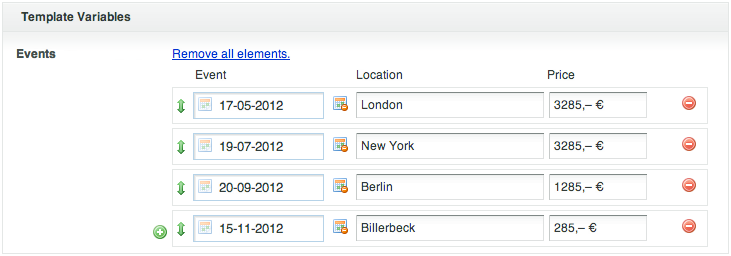
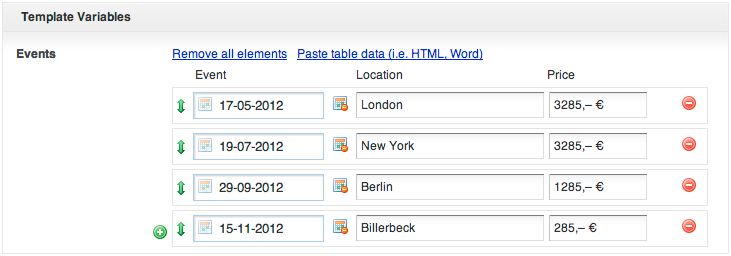
added: pasting input field for HTML/Word tables

diff --git a/js/jquery-htmlClean-1.3.0.min.js b/js/jquery-htmlClean-1.3.0.min.js
@@ -1,0 +1,1 @@
+(function (d) { d.fn.htmlClean = function (y) { return this.each(function () { var z = d(this); if (this.value) { this.value = d.htmlClean(this.value, y) } else { this.innerHTML = d.htmlClean(this.innerHTML, y) } }) }; d.htmlClean = function (D, z) { z = d.extend({}, d.htmlClean.defaults, z); var E = /<(\/)?(\w+:)?([\w]+)([^>]*)>/gi; var J = /(\w+)=(".*?"|'.*?'|[^\s>]*)/gi; var R; var L = new r(); var C = [L]; var F = L; var K = false; if (z.bodyOnly) { if (R = /<body[^>]*>((\n|.)*)<\/body>/i.exec(D)) { D = R[1] } } D = D.concat("<xxx>"); var O; while (R = E.exec(D)) { var T = new j(R[3], R[1], R[4], z); var G = D.substring(O, R.index); if (G.length > 0) { var B = F.children[F.children.length - 1]; if (F.children.length > 0 && n(B = F.children[F.children.length - 1])) { F.children[F.children.length - 1] = B.concat(G) } else { F.children.push(G) } } O = E.lastIndex; if (T.isClosing) { if (k(C, [T.name])) { C.pop(); F = C[C.length - 1] } } else { var y = new r(T); var A; while (A = J.exec(T.rawAttributes)) { if (A[1].toLowerCase() == "style" && z.replaceStyles) { var H = !T.isInline; for (var N = 0; N < z.replaceStyles.length; N++) { if (z.replaceStyles[N][0].test(A[2])) { if (!H) { T.render = false; H = true } F.children.push(y); C.push(y); F = y; T = new j(z.replaceStyles[N][1], "", "", z); y = new r(T) } } } if (T.allowedAttributes != null && (T.allowedAttributes.length == 0 || d.inArray(A[1], T.allowedAttributes) > -1)) { y.attributes.push(new a(A[1], A[2])) } } d.each(T.requiredAttributes, function () { var U = this.toString(); if (!y.hasAttribute(U)) { y.attributes.push(new a(U, "")) } }); for (var M = 0; M < z.replace.length; M++) { for (var Q = 0; Q < z.replace[M][0].length; Q++) { var P = typeof (z.replace[M][0][Q]) == "string"; if ((P && z.replace[M][0][Q] == T.name) || (!P && z.replace[M][0][Q].test(R))) { T.render = false; F.children.push(y); C.push(y); F = y; T = new j(z.replace[M][1], R[1], R[4], z); y = new r(T); y.attributes = F.attributes; M = z.replace.length; break } } } var I = true; if (!F.isRoot) { if (F.tag.isInline && !T.isInline) { I = false } else { if (F.tag.disallowNest && T.disallowNest && !T.requiredParent) { I = false } else { if (T.requiredParent) { if (I = k(C, T.requiredParent)) { F = C[C.length - 1] } } } } } if (I) { F.children.push(y); if (T.toProtect) { while (tagMatch2 = E.exec(D)) { var S = new j(tagMatch2[3], tagMatch2[1], tagMatch2[4], z); if (S.isClosing && S.name == T.name) { y.children.push(RegExp.leftContext.substring(O)); O = E.lastIndex; break } } } else { if (!T.isSelfClosing && !T.isNonClosing) { C.push(y); F = y } } } } } return d.htmlClean.trim(w(L, z).join("")) }; d.htmlClean.defaults = { bodyOnly: true, allowedTags: [], removeTags: ["basefont", "center", "dir", "font", "frame", "frameset", "iframe", "isindex", "menu", "noframes", "s", "strike", "u"], allowedAttributes: [], removeAttrs: [], allowedClasses: [], format: false, formatIndent: 0, replace: [[["b", "big"], "strong"], [["i"], "em"]], replaceStyles: [[/font-weight:\s*bold/i, "strong"], [/font-style:\s*italic/i, "em"], [/vertical-align:\s*super/i, "sup"], [/vertical-align:\s*sub/i, "sub"]] }; function h(B, A, z, y) { if (!B.tag.isInline && z.length > 0) { z.push("\n"); for (i = 0; i < y; i++) { z.push("\t") } } } function w(C, I) { var z = [], F = C.attributes.length == 0, A; var D = this.name.concat(C.tag.rawAttributes == undefined ? "" : C.tag.rawAttributes); var H = C.tag.render && (I.allowedTags.length == 0 || d.inArray(C.tag.name, I.allowedTags) > -1) && (I.removeTags.length == 0 || d.inArray(C.tag.name, I.removeTags) == -1); if (!C.isRoot && H) { z.push("<"); z.push(C.tag.name); d.each(C.attributes, function () { if (d.inArray(this.name, I.removeAttrs) == -1) { var J = RegExp(/^(['"]?)(.*?)['"]?$/).exec(this.value); var K = J[2]; var L = J[1] || "'"; if (this.name == "class") { K = d.grep(K.split(" "), function (M) { return d.grep(I.allowedClasses, function (N) { return N[0] == M && (N.length == 1 || d.inArray(C.tag.name, N[1]) > -1) }).length > 0 }).join(" "); L = "'" } if (K != null && (K.length > 0 || d.inArray(this.name, C.tag.requiredAttributes) > -1)) { z.push(" "); z.push(this.name); z.push("="); z.push(L); z.push(K); z.push(L) } } }) } if (C.tag.isSelfClosing) { if (H) { z.push(" />") } F = false } else { if (C.tag.isNonClosing) { F = false } else { if (!C.isRoot && H) { z.push(">") } var A = I.formatIndent++; if (C.tag.toProtect) { var E = d.htmlClean.trim(C.children.join("")).replace(/<br>/ig, "\n"); z.push(E); F = E.length == 0 } else { var E = []; for (var B = 0; B < C.children.length; B++) { var y = C.children[B]; var G = d.htmlClean.trim(c(n(y) ? y : y.childrenToString())); if (q(y)) { if (B > 0 && G.length > 0 && (v(y) || e(C.children[B - 1]))) { E.push(" ") } } if (n(y)) { if (G.length > 0) { E.push(G) } } else { if (B != C.children.length - 1 || y.tag.name != "br") { if (I.format) { h(y, I, E, A) } E = E.concat(w(y, I)) } } } I.formatIndent--; if (E.length > 0) { if (I.format && E[0] != "\n") { h(C, I, z, A) } z = z.concat(E); F = false } } if (!C.isRoot && H) { if (I.format) { h(C, I, z, A - 1) } z.push("</"); z.push(C.tag.name); z.push(">") } } } if (!C.tag.allowEmpty && F) { return [] } return z } function k(y, A, z) { z = z || 1; if (d.inArray(y[y.length - z].tag.name, A) > -1) { return true } else { if (y.length - (z + 1) > 0 && k(y, A, z + 1)) { y.pop(); return true } } return false } function r(y) { if (y) { this.tag = y; this.isRoot = false } else { this.tag = new j("root"); this.isRoot = true } this.attributes = []; this.children = []; this.hasAttribute = function (z) { for (var A = 0; A < this.attributes.length; A++) { if (this.attributes[A].name == z) { return true } } return false }; this.childrenToString = function () { return this.children.join("") }; return this } function a(y, z) { this.name = y; this.value = z; return this } function j(A, E, D, z) { this.name = A.toLowerCase(); this.isSelfClosing = d.inArray(this.name, l) > -1; this.isNonClosing = d.inArray(this.name, s) > -1; this.isClosing = (E != undefined && E.length > 0); this.isInline = d.inArray(this.name, t) > -1; this.disallowNest = d.inArray(this.name, p) > -1; this.requiredParent = f[d.inArray(this.name, f) + 1]; this.allowEmpty = d.inArray(this.name, b) > -1; this.toProtect = d.inArray(this.name, g) > -1; this.rawAttributes = D; this.requiredAttributes = x[d.inArray(this.name, x) + 1]; if (z) { if (!z.tagAttributesCache) { z.tagAttributesCache = [] } if (d.inArray(this.name, z.tagAttributesCache) == -1) { var y = m[d.inArray(this.name, m) + 1].slice(0); for (var C = 0; C < z.allowedAttributes.length; C++) { var B = z.allowedAttributes[C][0]; if ((z.allowedAttributes[C].length == 1 || d.inArray(this.name, z.allowedAttributes[C][1]) > -1) && d.inArray(B, y) == -1) { y.push(B) } } z.tagAttributesCache.push(this.name); z.tagAttributesCache.push(y) } this.allowedAttributes = z.tagAttributesCache[d.inArray(this.name, z.tagAttributesCache) + 1] } this.render = true; return this } function v(y) { while (o(y) && y.children.length > 0) { y = y.children[0] } return n(y) && y.length > 0 && d.htmlClean.isWhitespace(y.charAt(0)) } function e(y) { while (o(y) && y.children.length > 0) { y = y.children[y.children.length - 1] } return n(y) && y.length > 0 && d.htmlClean.isWhitespace(y.charAt(y.length - 1)) } function n(y) { return y.constructor == String } function q(y) { return n(y) || y.tag.isInline } function o(y) { return y.constructor == r } function c(y) { return y.replace(/&nbsp;|\n/g, " ").replace(/\s\s+/g, " ") } d.htmlClean.trim = function (y) { return d.htmlClean.trimStart(d.htmlClean.trimEnd(y)) }; d.htmlClean.trimStart = function (y) { return y.substring(d.htmlClean.trimStartIndex(y)) }; d.htmlClean.trimStartIndex = function (y) { for (var z = 0; z < y.length - 1 && d.htmlClean.isWhitespace(y.charAt(z)); z++) { } return z }; d.htmlClean.trimEnd = function (y) { return y.substring(0, d.htmlClean.trimEndIndex(y)) }; d.htmlClean.trimEndIndex = function (z) { for (var y = z.length - 1; y >= 0 && d.htmlClean.isWhitespace(z.charAt(y)); y--) { } return y + 1 }; d.htmlClean.isWhitespace = function (y) { return d.inArray(y, u) != -1 }; var t = ["a", "abbr", "acronym", "address", "b", "big", "br", "button", "caption", "cite", "code", "del", "em", "font", "hr", "i", "input", "img", "ins", "label", "legend", "map", "q", "s", "samp", "select", "small", "span", "strike", "strong", "sub", "sup", "tt", "u", "var"]; var p = ["h1", "h2", "h3", "h4", "h5", "h6", "p", "th", "td"]; var b = ["th", "td"]; var f = [null, "li", ["ul", "ol"], "dt", ["dl"], "dd", ["dl"], "td", ["tr"], "th", ["tr"], "tr", ["table", "thead", "tbody", "tfoot"], "thead", ["table"], "tbody", ["table"], "tfoot", ["table"]]; var g = ["script", "style", "pre", "code"]; var l = ["br", "hr", "img", "link", "meta"]; var s = ["!doctype", "?xml"]; var m = [["class"], "?xml", [], "!doctype", [], "a", ["accesskey", "class", "href", "name", "title", "rel", "rev", "type", "tabindex"], "abbr", ["class", "title"], "acronym", ["class", "title"], "blockquote", ["cite", "class"], "button", ["class", "disabled", "name", "type", "value"], "del", ["cite", "class", "datetime"], "form", ["accept", "action", "class", "enctype", "method", "name"], "input", ["accept", "accesskey", "alt", "checked", "class", "disabled", "ismap", "maxlength", "name", "size", "readonly", "src", "tabindex", "type", "usemap", "value"], "img", ["alt", "class", "height", "src", "width"], "ins", ["cite", "class", "datetime"], "label", ["accesskey", "class", "for"], "legend", ["accesskey", "class"], "link", ["href", "rel", "type"], "meta", ["content", "http-equiv", "name", "scheme", "charset"], "map", ["name"], "optgroup", ["class", "disabled", "label"], "option", ["class", "disabled", "label", "selected", "value"], "q", ["class", "cite"], "script", ["src", "type"], "select", ["class", "disabled", "multiple", "name", "size", "tabindex"], "style", ["type"], "table", ["class", "summary"], "th", ["class", "colspan", "rowspan"], "td", ["class", "colspan", "rowspan"], "textarea", ["accesskey", "class", "cols", "disabled", "name", "readonly", "rows", "tabindex"]]; var x = [[], "img", ["alt"]]; var u = [" ", " ", "\t", "\n", "\r", "\f"] })(jQuery);

diff --git a/js/jquery-colorbox-1.3.19.3-min.js b/js/jquery-colorbox-1.3.19.3-min.js
@@ -1,0 +1,4 @@
+// ColorBox v1.3.19.3 - jQuery lightbox plugin
+// (c) 2011 Jack Moore - jacklmoore.com
+// License: http://www.opensource.org/licenses/mit-license.php
+(function(a,b,c){function Z(c,d,e){var g=b.createElement(c);return d&&(g.id=f+d),e&&(g.style.cssText=e),a(g)}function $(a){var b=y.length,c=(Q+a)%b;return c<0?b+c:c}function _(a,b){return Math.round((/%/.test(a)?(b==="x"?z.width():z.height())/100:1)*parseInt(a,10))}function ab(a){return K.photo||/\.(gif|png|jpe?g|bmp|ico)((#|\?).*)?$/i.test(a)}function bb(){var b,c=a.data(P,e);c==null?(K=a.extend({},d),console&&console.log&&console.log("Error: cboxElement missing settings object")):K=a.extend({},c);for(b in K)a.isFunction(K[b])&&b.slice(0,2)!=="on"&&(K[b]=K[b].call(P));K.rel=K.rel||P.rel||"nofollow",K.href=K.href||a(P).attr("href"),K.title=K.title||P.title,typeof K.href=="string"&&(K.href=a.trim(K.href))}function cb(b,c){a.event.trigger(b),c&&c.call(P)}function db(){var a,b=f+"Slideshow_",c="click."+f,d,e,g;K.slideshow&&y[1]?(d=function(){F.text(K.slideshowStop).unbind(c).bind(j,function(){if(K.loop||y[Q+1])a=setTimeout(W.next,K.slideshowSpeed)}).bind(i,function(){clearTimeout(a)}).one(c+" "+k,e),r.removeClass(b+"off").addClass(b+"on"),a=setTimeout(W.next,K.slideshowSpeed)},e=function(){clearTimeout(a),F.text(K.slideshowStart).unbind([j,i,k,c].join(" ")).one(c,function(){W.next(),d()}),r.removeClass(b+"on").addClass(b+"off")},K.slideshowAuto?d():e()):r.removeClass(b+"off "+b+"on")}function eb(b){U||(P=b,bb(),y=a(P),Q=0,K.rel!=="nofollow"&&(y=a("."+g).filter(function(){var b=a.data(this,e),c;return b&&(c=b.rel||this.rel),c===K.rel}),Q=y.index(P),Q===-1&&(y=y.add(P),Q=y.length-1)),S||(S=T=!0,r.show(),K.returnFocus&&a(P).blur().one(l,function(){a(this).focus()}),q.css({opacity:+K.opacity,cursor:K.overlayClose?"pointer":"auto"}).show(),K.w=_(K.initialWidth,"x"),K.h=_(K.initialHeight,"y"),W.position(),o&&z.bind("resize."+p+" scroll."+p,function(){q.css({width:z.width(),height:z.height(),top:z.scrollTop(),left:z.scrollLeft()})}).trigger("resize."+p),cb(h,K.onOpen),J.add(D).hide(),I.html(K.close).show()),W.load(!0))}function fb(){!r&&b.body&&(Y=!1,z=a(c),r=Z(X).attr({id:e,"class":n?f+(o?"IE6":"IE"):""}).hide(),q=Z(X,"Overlay",o?"position:absolute":"").hide(),s=Z(X,"Wrapper"),t=Z(X,"Content").append(A=Z(X,"LoadedContent","width:0; height:0; overflow:hidden"),C=Z(X,"LoadingOverlay").add(Z(X,"LoadingGraphic")),D=Z(X,"Title"),E=Z(X,"Current"),G=Z(X,"Next"),H=Z(X,"Previous"),F=Z(X,"Slideshow").bind(h,db),I=Z(X,"Close")),s.append(Z(X).append(Z(X,"TopLeft"),u=Z(X,"TopCenter"),Z(X,"TopRight")),Z(X,!1,"clear:left").append(v=Z(X,"MiddleLeft"),t,w=Z(X,"MiddleRight")),Z(X,!1,"clear:left").append(Z(X,"BottomLeft"),x=Z(X,"BottomCenter"),Z(X,"BottomRight"))).find("div div").css({"float":"left"}),B=Z(X,!1,"position:absolute; width:9999px; visibility:hidden; display:none"),J=G.add(H).add(E).add(F),a(b.body).append(q,r.append(s,B)))}function gb(){return r?(Y||(Y=!0,L=u.height()+x.height()+t.outerHeight(!0)-t.height(),M=v.width()+w.width()+t.outerWidth(!0)-t.width(),N=A.outerHeight(!0),O=A.outerWidth(!0),r.css({"padding-bottom":L,"padding-right":M}),G.click(function(){W.next()}),H.click(function(){W.prev()}),I.click(function(){W.close()}),q.click(function(){K.overlayClose&&W.close()}),a(b).bind("keydown."+f,function(a){var b=a.keyCode;S&&K.escKey&&b===27&&(a.preventDefault(),W.close()),S&&K.arrowKey&&y[1]&&(b===37?(a.preventDefault(),H.click()):b===39&&(a.preventDefault(),G.click()))}),a("."+g,b).live("click",function(a){a.which>1||a.shiftKey||a.altKey||a.metaKey||(a.preventDefault(),eb(this))})),!0):!1}var d={transition:"elastic",speed:300,width:!1,initialWidth:"600",innerWidth:!1,maxWidth:!1,height:!1,initialHeight:"450",innerHeight:!1,maxHeight:!1,scalePhotos:!0,scrolling:!0,inline:!1,html:!1,iframe:!1,fastIframe:!0,photo:!1,href:!1,title:!1,rel:!1,opacity:.9,preloading:!0,current:"image {current} of {total}",previous:"previous",next:"next",close:"close",xhrError:"This content failed to load.",imgError:"This image failed to load.",open:!1,returnFocus:!0,reposition:!0,loop:!0,slideshow:!1,slideshowAuto:!0,slideshowSpeed:2500,slideshowStart:"start slideshow",slideshowStop:"stop slideshow",onOpen:!1,onLoad:!1,onComplete:!1,onCleanup:!1,onClosed:!1,overlayClose:!0,escKey:!0,arrowKey:!0,top:!1,bottom:!1,left:!1,right:!1,fixed:!1,data:undefined},e="colorbox",f="cbox",g=f+"Element",h=f+"_open",i=f+"_load",j=f+"_complete",k=f+"_cleanup",l=f+"_closed",m=f+"_purge",n=!a.support.opacity&&!a.support.style,o=n&&!c.XMLHttpRequest,p=f+"_IE6",q,r,s,t,u,v,w,x,y,z,A,B,C,D,E,F,G,H,I,J,K,L,M,N,O,P,Q,R,S,T,U,V,W,X="div",Y;if(a.colorbox)return;a(fb),W=a.fn[e]=a[e]=function(b,c){var f=this;b=b||{},fb();if(gb()){if(!f[0]){if(f.selector)return f;f=a("<a/>"),b.open=!0}c&&(b.onComplete=c),f.each(function(){a.data(this,e,a.extend({},a.data(this,e)||d,b))}).addClass(g),(a.isFunction(b.open)&&b.open.call(f)||b.open)&&eb(f[0])}return f},W.position=function(a,b){function i(a){u[0].style.width=x[0].style.width=t[0].style.width=a.style.width,t[0].style.height=v[0].style.height=w[0].style.height=a.style.height}var c=0,d=0,e=r.offset(),g,h;z.unbind("resize."+f),r.css({top:-9e4,left:-9e4}),g=z.scrollTop(),h=z.scrollLeft(),K.fixed&&!o?(e.top-=g,e.left-=h,r.css({position:"fixed"})):(c=g,d=h,r.css({position:"absolute"})),K.right!==!1?d+=Math.max(z.width()-K.w-O-M-_(K.right,"x"),0):K.left!==!1?d+=_(K.left,"x"):d+=Math.round(Math.max(z.width()-K.w-O-M,0)/2),K.bottom!==!1?c+=Math.max(z.height()-K.h-N-L-_(K.bottom,"y"),0):K.top!==!1?c+=_(K.top,"y"):c+=Math.round(Math.max(z.height()-K.h-N-L,0)/2),r.css({top:e.top,left:e.left}),a=r.width()===K.w+O&&r.height()===K.h+N?0:a||0,s[0].style.width=s[0].style.height="9999px",r.dequeue().animate({width:K.w+O,height:K.h+N,top:c,left:d},{duration:a,complete:function(){i(this),T=!1,s[0].style.width=K.w+O+M+"px",s[0].style.height=K.h+N+L+"px",K.reposition&&setTimeout(function(){z.bind("resize."+f,W.position)},1),b&&b()},step:function(){i(this)}})},W.resize=function(a){S&&(a=a||{},a.width&&(K.w=_(a.width,"x")-O-M),a.innerWidth&&(K.w=_(a.innerWidth,"x")),A.css({width:K.w}),a.height&&(K.h=_(a.height,"y")-N-L),a.innerHeight&&(K.h=_(a.innerHeight,"y")),!a.innerHeight&&!a.height&&(A.css({height:"auto"}),K.h=A.height()),A.css({height:K.h}),W.position(K.transition==="none"?0:K.speed))},W.prep=function(b){function g(){return K.w=K.w||A.width(),K.w=K.mw&&K.mw<K.w?K.mw:K.w,K.w}function h(){return K.h=K.h||A.height(),K.h=K.mh&&K.mh<K.h?K.mh:K.h,K.h}if(!S)return;var c,d=K.transition==="none"?0:K.speed;A.remove(),A=Z(X,"LoadedContent").append(b),A.hide().appendTo(B.show()).css({width:g(),overflow:K.scrolling?"auto":"hidden"}).css({height:h()}).prependTo(t),B.hide(),a(R).css({"float":"none"}),o&&a("select").not(r.find("select")).filter(function(){return this.style.visibility!=="hidden"}).css({visibility:"hidden"}).one(k,function(){this.style.visibility="inherit"}),c=function(){function s(){n&&r[0].style.removeAttribute("filter")}var b,c,g=y.length,h,i="frameBorder",k="allowTransparency",l,o,p,q;if(!S)return;l=function(){clearTimeout(V),C.hide(),cb(j,K.onComplete)},n&&R&&A.fadeIn(100),D.html(K.title).add(A).show();if(g>1){typeof K.current=="string"&&E.html(K.current.replace("{current}",Q+1).replace("{total}",g)).show(),G[K.loop||Q<g-1?"show":"hide"]().html(K.next),H[K.loop||Q?"show":"hide"]().html(K.previous),K.slideshow&&F.show();if(K.preloading){b=[$(-1),$(1)];while(c=y[b.pop()])q=a.data(c,e),q&&q.href?(o=q.href,a.isFunction(o)&&(o=o.call(c))):o=c.href,ab(o)&&(p=new Image,p.src=o)}}else J.hide();K.iframe?(h=Z("iframe")[0],i in h&&(h[i]=0),k in h&&(h[k]="true"),h.name=f+ +(new Date),K.fastIframe?l():a(h).one("load",l),h.src=K.href,K.scrolling||(h.scrolling="no"),a(h).addClass(f+"Iframe").appendTo(A).one(m,function(){h.src="//about:blank"})):l(),K.transition==="fade"?r.fadeTo(d,1,s):s()},K.transition==="fade"?r.fadeTo(d,0,function(){W.position(0,c)}):W.position(d,c)},W.load=function(b){var c,d,e=W.prep;T=!0,R=!1,P=y[Q],b||bb(),cb(m),cb(i,K.onLoad),K.h=K.height?_(K.height,"y")-N-L:K.innerHeight&&_(K.innerHeight,"y"),K.w=K.width?_(K.width,"x")-O-M:K.innerWidth&&_(K.innerWidth,"x"),K.mw=K.w,K.mh=K.h,K.maxWidth&&(K.mw=_(K.maxWidth,"x")-O-M,K.mw=K.w&&K.w<K.mw?K.w:K.mw),K.maxHeight&&(K.mh=_(K.maxHeight,"y")-N-L,K.mh=K.h&&K.h<K.mh?K.h:K.mh),c=K.href,V=setTimeout(function(){C.show()},100),K.inline?(Z(X).hide().insertBefore(a(c)[0]).one(m,function(){a(this).replaceWith(A.children())}),e(a(c))):K.iframe?e(" "):K.html?e(K.html):ab(c)?(a(R=new Image).addClass(f+"Photo").error(function(){K.title=!1,e(Z(X,"Error").html(K.imgError))}).load(function(){var a;R.onload=null,K.scalePhotos&&(d=function(){R.height-=R.height*a,R.width-=R.width*a},K.mw&&R.width>K.mw&&(a=(R.width-K.mw)/R.width,d()),K.mh&&R.height>K.mh&&(a=(R.height-K.mh)/R.height,d())),K.h&&(R.style.marginTop=Math.max(K.h-R.height,0)/2+"px"),y[1]&&(K.loop||y[Q+1])&&(R.style.cursor="pointer",R.onclick=function(){W.next()}),n&&(R.style.msInterpolationMode="bicubic"),setTimeout(function(){e(R)},1)}),setTimeout(function(){R.src=c},1)):c&&B.load(c,K.data,function(b,c,d){e(c==="error"?Z(X,"Error").html(K.xhrError):a(this).contents())})},W.next=function(){!T&&y[1]&&(K.loop||y[Q+1])&&(Q=$(1),W.load())},W.prev=function(){!T&&y[1]&&(K.loop||Q)&&(Q=$(-1),W.load())},W.close=function(){S&&!U&&(U=!0,S=!1,cb(k,K.onCleanup),z.unbind("."+f+" ."+p),q.fadeTo(200,0),r.stop().fadeTo(300,0,function(){r.add(q).css({opacity:1,cursor:"auto"}).hide(),cb(m),A.remove(),setTimeout(function(){U=!1,cb(l,K.onClosed)},1)}))},W.remove=function(){a([]).add(r).add(q).remove(),r=null,a("."+g).removeData(e).removeClass(g).die()},W.element=function(){return a(P)},W.settings=d})(jQuery,document,this);

diff --git a/js/multitv.js b/js/multitv.js
@@ -48,14 +48,19 @@ function TransformField(tvid, tvfields, tvlanguage) {
 	var field = $j('#' + tvid);
 	var fieldValue = [];
 	var fieldHeading = $j('#' + tvid + 'heading');
-	var fieldNames = tvfields;
+	var fieldNames = tvfields['fieldnames'];
+	var fieldTypes = tvfields['fieldtypes'];
 	var fieldList = $j('#' + tvid + 'list');
 	var fieldListElement = fieldList.find('li:first');
 	var fieldListElementEmpty = fieldListElement.clone();
 	var fieldListCopyButton = $j('<a href="#" class="copy" title="'+tvlanguage.add+'">'+tvlanguage.add+'</a>');
 	var fieldEdit = $j('#' + tvid + 'edit');
 	var fieldClear = $j('#' + tvid + 'clear');
+	var fieldPasteWord = $j('#' + tvid + 'pasteword');
+	var fieldPasteForm = $j('#' + tvid + 'pasteform');
+	var fieldPasteArea = $j('#' + tvid + 'pastearea');
 	var fieldListCounter = 1;
+	var pasteBox;
 	
 	function DuplicateElement(element, elementCount) {
 		var clone = element.clone(true).hide();
@@ -175,6 +180,40 @@ function TransformField(tvid, tvfields, tvlanguage) {
 		}
 	}
 	
+	function prefillInputs(fieldValue) {
+		$j.each(fieldValue, function() {
+			var values = this;
+			if (fieldListCounter == 1) {
+				var i = 0;
+				$j.each(values, function() {
+					var fieldInput = fieldListElement.find('[name^="'+tvid+fieldNames[i]+'"][type!="hidden"]');
+					fieldInput.setValue(values[i]);
+					if (fieldInput.hasClass('image')) {
+						setThumbnail(values[i], fieldInput.attr('name'), fieldListElement);
+					}
+					i++;
+				}) 
+			} else {
+				var clone = DuplicateElement(fieldListElementEmpty, fieldListCounter);
+				clone.show();
+				fieldList.append(clone);
+				var i = 0;
+				$j.each(values, function() {
+					var fieldInput = clone.find('[name^="'+tvid+fieldNames[i]+'"][type!="hidden"]');
+					fieldInput.setValue(values[i]);
+					if (fieldInput.hasClass('image')) {
+						setThumbnail(values[i], fieldInput.attr('name'), clone);
+					}
+					i++;
+				}) 
+			//AddElementEvents(clone);
+			}
+			fieldListCounter++;
+		});
+		field.addClass('transformed');
+
+	}
+	
 	// reset all event
 	fieldClear.find('a').click(function() {
 		var answer = confirm(tvlanguage.confirmclear);
@@ -200,6 +239,55 @@ function TransformField(tvid, tvfields, tvlanguage) {
 		fieldEdit.hide();
 		fieldListCopyButton.show();
 		AddElementEvents(clone);
+		return false;
+	});
+	
+	// paste box
+	pasteBox = fieldPasteWord.find('a').colorbox({
+		inline:true, 
+		width:"500px", 
+		height:"350px",
+		onClosed:function() {
+			fieldPasteArea.html('');
+		},
+		close:''
+	});
+	
+	// close paste box
+	fieldPasteForm.find('.close').click(function() {
+		pasteBox.colorbox.close();
+		return false;
+	});
+
+	// save pasted form
+	fieldPasteForm.find('.save').click(function() {
+		var pastedArray = [];
+		var clean = fieldPasteArea.htmlClean({
+			allowedTags:['table','tbody','tr','td']
+		}).html();
+		clean = clean.replace(/\n/mg, '').replace(/.*<table>/mg,'<table>').replace(/<\/table>.*/mg,'</table>');
+		$j(clean).find('tr').each(function() {
+			var pastedRow = [];
+			var tableData = $j(this).find('td');
+			if (tableData.length > 0) {
+				var i = 0;
+				tableData.each(function() {
+					if (fieldTypes[i] == 'thumb') {
+						pastedRow.push('');
+						i++;
+					}
+					pastedRow.push($j(this).text());
+					i++;
+				});
+				pastedArray.push(pastedRow);
+			}
+		});
+		console.log (pastedArray);
+		fieldList.find('li:gt(0)').remove();
+		fieldListCounter = 1;
+		prefillInputs(pastedArray);
+		fieldList.find('li:first input:first').trigger('change');
+		pasteBox.colorbox.close();
 		return false;
 	});
 
@@ -232,41 +320,9 @@ function TransformField(tvid, tvfields, tvlanguage) {
 			axis: 'y',
 			helper: 'clone'
 		});
-
-		// prefill inputs
 		if (!field.hasClass('transformed')) {
 			fieldList.before(fieldListCopyButton);
-			$j.each(fieldValue, function() {
-				var values = this;
-				var i = 0;
-				if (fieldListCounter == 1) {
-					i = 0;
-					$j.each(values, function() {
-						var fieldInput = fieldListElement.find('[name^="'+tvid+fieldNames[i]+'"][type!="hidden"]');
-						fieldInput.setValue(values[i]);
-						if (fieldInput.hasClass('image')) {
-							setThumbnail(values[i], fieldInput.attr('name'), fieldListElement);
-						}
-						i++;
-					}) 
-				} else {
-					var clone = DuplicateElement(fieldListElementEmpty, fieldListCounter);
-					clone.show();
-					fieldList.append(clone);
-					i = 0;
-					$j.each(values, function() {
-						var fieldInput = clone.find('[name^="'+tvid+fieldNames[i]+'"][type!="hidden"]');
-						fieldInput.setValue(values[i]);
-						if (fieldInput.hasClass('image')) {
-							setThumbnail(values[i], fieldInput.attr('name'), clone);
-						}
-						i++;
-					}) 
-				//AddElementEvents(clone);
-				}
-				fieldListCounter++;
-			});
-			field.addClass('transformed');
+			prefillInputs(fieldValue);
 		}
 	} else {
 		fieldHeading.hide();

diff --git a/js/colorbox.css b/js/colorbox.css
@@ -1,0 +1,58 @@
+/*
+    ColorBox Core Style:
+    The following CSS is consistent between example themes and should not be altered.
+*/
+#colorbox, #cboxOverlay, #cboxWrapper{position:absolute; top:0; left:0; z-index:9999; overflow:hidden;}
+#cboxOverlay{position:fixed; width:100%; height:100%;}
+#cboxMiddleLeft, #cboxBottomLeft{clear:left;}
+#cboxContent{position:relative;}
+#cboxLoadedContent{overflow:auto;}
+#cboxTitle{margin:0;}
+#cboxLoadingOverlay, #cboxLoadingGraphic{position:absolute; top:0; left:0; width:100%; height:100%;}
+#cboxPrevious, #cboxNext, #cboxClose, #cboxSlideshow{cursor:pointer;}
+.cboxPhoto{float:left; margin:auto; border:0; display:block;}
+.cboxIframe{width:100%; height:100%; display:block; border:0;}
+#colorbox, #cboxContent, #cboxLoadedContent{box-sizing:content-box;}
+
+/* 
+    User Style:
+    Change the following styles to modify the appearance of ColorBox.  They are
+    ordered & tabbed in a way that represents the nesting of the generated HTML.
+*/
+#cboxOverlay{background:#fff;}
+#colorbox{}
+    #cboxTopLeft{width:25px; height:25px; background:url(images/border1.png) no-repeat 0 0;}
+    #cboxTopCenter{height:25px; background:url(images/border1.png) repeat-x 0 -50px;}
+    #cboxTopRight{width:25px; height:25px; background:url(images/border1.png) no-repeat -25px 0;}
+    #cboxBottomLeft{width:25px; height:25px; background:url(images/border1.png) no-repeat 0 -25px;}
+    #cboxBottomCenter{height:25px; background:url(images/border1.png) repeat-x 0 -75px;}
+    #cboxBottomRight{width:25px; height:25px; background:url(images/border1.png) no-repeat -25px -25px;}
+    #cboxMiddleLeft{width:25px; background:url(images/border2.png) repeat-y 0 0;}
+    #cboxMiddleRight{width:25px; background:url(images/border2.png) repeat-y -25px 0;}
+    #cboxContent{background:#fff; overflow:hidden;}
+        .cboxIframe{background:#fff;}
+        #cboxError{padding:50px; border:1px solid #ccc;}
+        #cboxLoadedContent{margin-bottom:0px;}
+        #cboxTitle{position:absolute; bottom:0px; left:0; text-align:center; width:100%; color:#999;}
+        #cboxCurrent{position:absolute; bottom:0px; left:100px; color:#999;}
+        #cboxSlideshow{position:absolute; bottom:0px; right:42px; color:#444;}
+        #cboxPrevious{position:absolute; bottom:0px; left:0; color:#444;}
+        #cboxNext{position:absolute; bottom:0px; left:63px; color:#444;}
+        #cboxLoadingOverlay{background:#fff url(images/loading.gif) no-repeat 5px 5px;}
+        #cboxClose{position:absolute; bottom:0; right:0; display:block; color:#444;}
+
+/*
+  The following fixes a problem where IE7 and IE8 replace a PNG's alpha transparency with a black fill
+  when an alpha filter (opacity change) is set on the element or ancestor element.  This style is not applied to or needed in IE9.
+  See: http://jacklmoore.com/notes/ie-transparency-problems/
+*/
+.cboxIE #cboxTopLeft,
+.cboxIE #cboxTopCenter,
+.cboxIE #cboxTopRight,
+.cboxIE #cboxBottomLeft,
+.cboxIE #cboxBottomCenter,
+.cboxIE #cboxBottomRight,
+.cboxIE #cboxMiddleLeft,
+.cboxIE #cboxMiddleRight {
+    filter: progid:DXImageTransform.Microsoft.gradient(startColorstr=#00FFFFFF,endColorstr=#00FFFFFF);
+}

diff --git a/templates/multitv.template.html b/templates/multitv.template.html
@@ -1,10 +1,13 @@
 <div class="multitv">
 	<link rel="stylesheet" type="text/css" href="[+tvpath+]js/jquery-ui-1.8.18.custom.css" />
 	<link rel="stylesheet" type="text/css" href="[+tvpath+]js/multitv.css" />
+	<link rel="stylesheet" type="text/css" href="[+tvpath+]js/colorbox.css" />
 	<script type="text/javascript" src="[+tvpath+]js/jquery-1.4.4.min.js"></script>
 	<script type="text/javascript" src="[+tvpath+]js/jquery-ui-1.8.18.custom.min.js"></script>
 	<script type="text/javascript" src="[+tvpath+]js/jquery-ui-timepicker-addon.js"></script>
 	<script type="text/javascript" src="[+tvpath+]js/jquery-field-0.9.6.min.js"></script>
+	<script type="text/javascript" src="[+tvpath+]js/jquery-colorbox-1.3.19.3-min.js"></script>
+	<script type="text/javascript" src="[+tvpath+]js/jquery-htmlClean-1.3.0.min.js"></script>
 	<script type="text/javascript" src="[+tvpath+]js/multitv.js"></script>
 	<style type="text/css">
 		[+tvcss+]
@@ -16,8 +19,16 @@
 		
 	</script>
 	<input style="width:100%;" onchange="documentDirty=true;" name="[+tvid+]" id="[+tvid+]" value='[+tvvalue+]' />
-	<div id="[+tvid+]edit">[+tvlang.edit+]</div>
-	<div id="[+tvid+]clear"><a href="#">[+tvlang.clear+]</a></div>
+	<div id="[+tvid+]edit" class="tvedit">[+tvlang.edit+]</div>
+	<div id="[+tvid+]clear" class="tvclear"><a href="#">[+tvlang.clear+]</a></div>
+	<div id="[+tvid+]pasteword" class="tvpasteword"><a href="#[+tvid+]pasteform">[+tvlang.pasteword+]</a></div>
+	<div id="[+tvid+]pasteform" class="tvpasteform hidden">
+		<p class="legend">Paste Here</p>
+		<div id="[+tvid+]pastearea" class="pastearea" contenteditable="true"></div>
+		<div class="buttons">
+			<a class="save" href="#">Save</a><a class="close" href="#">Close</a>
+		</div>
+	</div>
 	[+tvheading+]
 	<ul id="[+tvid+]list" class="list sortable">
 		[+tvelement+]

diff --git a/js/multitv.css b/js/multitv.css
@@ -1,6 +1,6 @@
 .multitv { position: relative }
 
-.multitv .heading { padding-left: 20px }
+.multitv .heading { padding-left: 20px; clear: left }
 
 .multitv .copy { position: absolute; left: -20px; bottom: 7px; background: url('images/add.png') no-repeat left center; display: block; width: 16px; height: 16px; text-indent: -2000px }
 .multitv .list { margin: 0; padding: 0; clear: left; position: relative }
@@ -26,3 +26,13 @@
 
 .multitv .list li.element .tvimage { float: right; margin-right: 2px; width: 96px }
 .multitv .list li.element .thumb { border: 1px solid #ccc !important }
+
+.multitv .hidden { display: none }
+
+.multitv .tvedit, .multitv .tvclear, .multitv .tvpasteword { float: left; margin-right: 10px }
+
+.tvpasteform { width: 450px }
+.tvpasteform .pastearea, .pasteform .buttons, .pasteform .legend { width: 438px; margin: 0 auto 5px } 
+.tvpasteform .pastearea { width: 418px; height: 225px; overflow: hidden; border: 1px solid #e3e3e3; padding: 10px }
+.tvpasteform .buttons { text-align: right }
+.tvpasteform .buttons a { margin-left: 5px; text-decoration: none; color: #000 }

diff --git a/multitv.class.php b/multitv.class.php
@@ -23,6 +23,7 @@ class multiTV {
 	public $tvValue = '';
 	public $display = '';
 	public $fieldnames = array();
+	public $fieldtypes = array();
 	public $fields = array();
 	public $templates = array();
 	public $language = array();
@@ -74,6 +75,10 @@ class multiTV {
 	function tvSettings($settings) {
 		$this->fields = $settings['fields'];
 		$this->fieldnames = array_keys($this->fields);
+		$this->fieldtypes = array();
+		foreach ($this->fields as $field) {
+			$this->fieldtypes[] = $field['type'];
+		}
 		$this->templates = $settings['templates'];
 		$this->display = $settings['display'];
 	}
@@ -81,7 +86,7 @@ class multiTV {
 	// invoke modx renderFormElement and change the output (to multiTV demands)
 	function renderMultiTVFormElement($fieldType, $fieldName, $fieldElements, $fieldClass) {
 		global $modx;
-		
+
 		switch ($fieldType) {
 			case 'url' : {
 					$fieldType = 'text';
@@ -124,7 +129,7 @@ class multiTV {
 		$tvid = "tv" . $this->tvID;
 		$tvvalue = ($this->tvValue != '') ? $this->tvValue : '[]';
 		$tvvalue = str_replace(array('[[', ']]'), array('[ [', '] ]'), $tvvalue);
-		$tvfields = json_encode($this->fieldnames);
+		$tvfields = json_encode(array('fieldnames' => $this->fieldnames, 'fieldtypes' => $this->fieldtypes));
 		$tvlanguage = json_encode($this->language);
 		$tvpath = '../' . MTV_PATH;
 

diff --git a/languages/german.language.inc.php b/languages/german.language.inc.php
@@ -1,7 +1,8 @@
 <?php
 $language['edit'] = 'Inhalt geerbt vom Elternelement und/oder gelöscht. Zum Bearbeiten <a href="#">hier</a> klicken.';
-$language['clear'] = 'Alle Elemente entfernen.';
+$language['clear'] = 'Alle Elemente entfernen';
 $language['confirmclear'] = 'Wollen Sie wirklich alles löschen?';
+$language['pasteword'] = 'Tabellendaten einfügen (z.B. HTML, Word)';
 $language['add'] = 'Hinzufügen';
 $language['remove'] = 'Entfernen';
 ?>

diff --git a/languages/english.language.inc.php b/languages/english.language.inc.php
@@ -1,7 +1,8 @@
 <?php
 $language['edit'] = 'Content inherited from parent and/or deleted. Click <a href="#">here</a> to edit.';
-$language['clear'] = 'Remove all elements.';
+$language['clear'] = 'Remove all elements';
 $language['confirmclear'] = 'Wollen Sie wirklich alles löschen?';
+$language['pasteword'] = 'Paste table data (i.e. HTML, Word)';
 $language['add'] = 'Add';
 $language['remove'] = 'Remove';
 ?>

diff --git a/README.md b/README.md
@@ -86,7 +86,7 @@ Part 3: PHx modifier
 ================================================================================
 Since the JSON string in multiTV starts with `[[` and ends with `]]` (see note 1), you can't check if the multiTV is empty by ```[*multittvname:ne=``:then=`not empty`*]```. 
 
-You could to use the PHx modifier in the folder `phx-modifier` in that case. Move the two files to `assets/plugins/phx/modifiers` and call it like this ``[+phx:multitvisempty=`tvname|docid`:then=`xxx`:else=`yyy`+]`` or like this ``[+phx:multitvisnotempty=`tvname|docid`:then=`xxx`:else=`yyy`+]``
+You could to use the PHx modifier in the folder `phx-modifier` in that case. Move the two files to `assets/plugins/phx/modifiers` and call it like this ``[+phx:multitvisempty=`tvname|docid`:then=`xxx`:else=`yyy`+]`` or like this ``[+phx:multitvisnotempty=`tvname|docid`:then=`xxx`:else=`yyy`+]``. If the docid is not set it defaults to current document.
 
 Notes:
 --------------------------------------------------------------------------------
